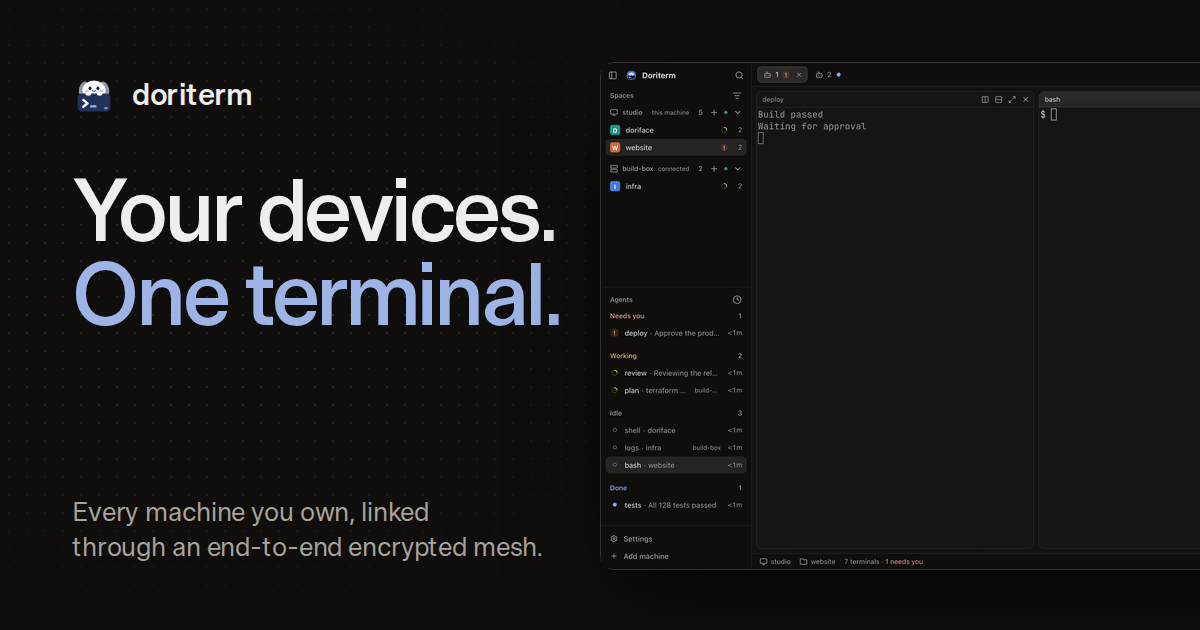
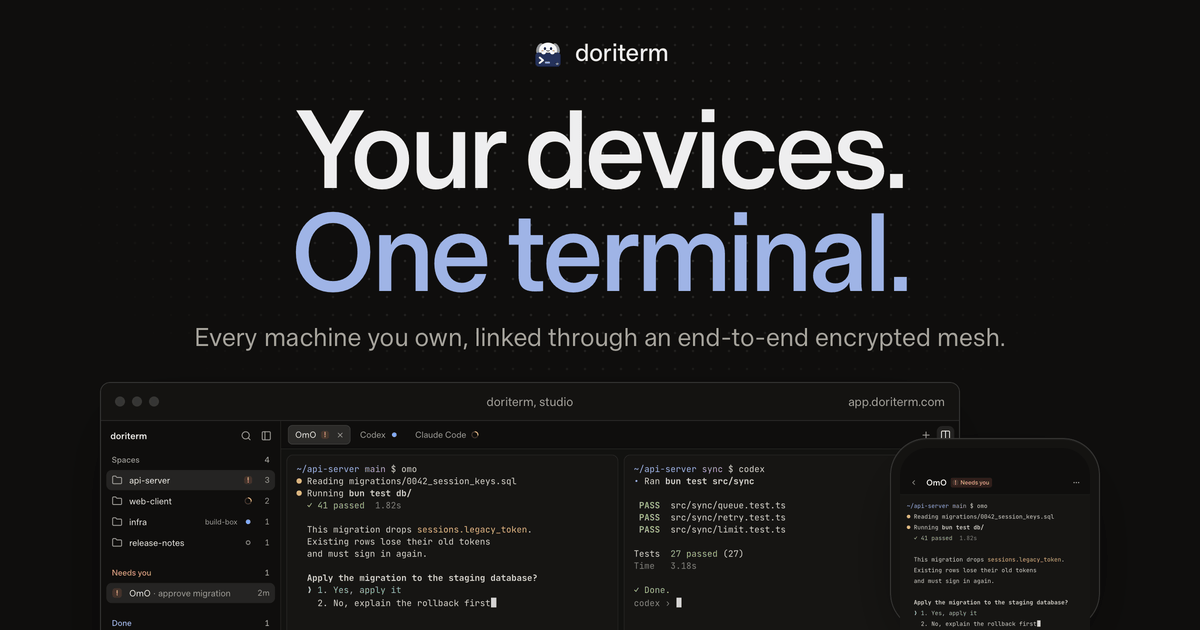
fix(landing): the social card shows the site as it looks now, at a dated address link previews fetch fresh
The card is rendered from the landing's own stylesheet and fonts with the live app mockups, in the Night palette the page uses by default. It is served at /og-20261108.png with a year-long immutable cache; /og.png carries the same image for links to the old name.

diff --git a/apps/web/index.html b/apps/web/index.html
@@ -9,15 +9,15 @@
     <meta property="og:title" content="Doriterm: Your devices. One terminal." />
     <meta property="og:description" content="Open Doriterm in your browser. Every machine you own, in one tab." />
     <meta property="og:url" content="https://app.doriterm.com/" />
-    <meta property="og:image" content="https://doriterm.com/og.png" />
+    <meta property="og:image" content="https://doriterm.com/og-20261108.png" />
     <meta property="og:image:width" content="1200" />
     <meta property="og:image:height" content="630" />
-    <meta property="og:image:alt" content="Doriterm: Your devices. One terminal., beside the app window." />
+    <meta property="og:image:alt" content="Doriterm: Your devices. One terminal., above the app window and phone." />
     <meta name="twitter:card" content="summary_large_image" />
     <meta name="twitter:title" content="Doriterm: Your devices. One terminal." />
     <meta name="twitter:description" content="Open Doriterm in your browser. Every machine you own, in one tab." />
-    <meta name="twitter:image" content="https://doriterm.com/og.png" />
-    <meta name="twitter:image:alt" content="Doriterm: Your devices. One terminal., beside the app window." />
+    <meta name="twitter:image" content="https://doriterm.com/og-20261108.png" />
+    <meta name="twitter:image:alt" content="Doriterm: Your devices. One terminal., above the app window and phone." />
     <link rel="icon" href="/favicon.svg" type="image/svg+xml" />
     <link rel="icon" href="/favicon-32.png" sizes="32x32" type="image/png" />
     <link rel="icon" href="/favicon-16.png" sizes="16x16" type="image/png" />

diff --git a/apps/landing/index.html b/apps/landing/index.html
@@ -14,7 +14,7 @@
     <meta property="og:description" content="Every machine you own, linked through an end-to-end encrypted mesh." />
     <meta property="og:url" content="https://doriterm.com/" />
     <meta property="og:type" content="website" />
-    <meta property="og:image" content="https://doriterm.com/og.png" />
+    <meta property="og:image" content="https://doriterm.com/og-20261108.png" />
     <meta property="og:image:width" content="1200" />
     <meta property="og:image:height" content="630" />
     <meta name="twitter:card" content="summary_large_image" />

diff --git a/tests/ci/deploy-web.test.ts b/tests/ci/deploy-web.test.ts
@@ -163,7 +163,7 @@ const metaOf = (page: string, key: string): string | undefined =>
 
 test("app.doriterm.com previews with the same card as doriterm.com, so the two cannot drift apart", () => {
   const landing = metaOf("landing", "og:image");
-  expect(landing).toBe("https://doriterm.com/og.png");
+  expect(landing).toBe("https://doriterm.com/og-20261108.png");
   expect(metaOf("web", "og:image")).toBe(landing);
   expect(metaOf("web", "twitter:image")).toBe(landing);
 });

diff --git a/.github/scripts/probe-landing.ts b/.github/scripts/probe-landing.ts
@@ -43,7 +43,7 @@ function probes(index: string): readonly Probe[] {
       check: (response) => (header(response, "cache-control").includes("immutable") ? undefined : "not immutable"),
     },
     {
-      path: "/og.png",
+      path: "/og-20261108.png",
       check: (response) => (header(response, "content-type") === "image/png" ? undefined : "not image/png"),
     },
   ];

diff --git a/apps/landing/README.md b/apps/landing/README.md
@@ -12,6 +12,6 @@ bun run --cwd apps/landing preview   # serve dist/
 
 - `index.html`, `styles.css`, `main.js`: the page. Plain HTML and CSS, one small module for the theme switch, the scene animations and the mockup frames.
 - `mockup/index.html` (served at `/mockup/`), `src/mockup/`: the app's own components from `@doriface/ui` with sample data, shown on the page in lazy iframes.
-- `public/`: files served at fixed paths (`_headers`, `og.png`, `robots.txt`, `sitemap.xml`, icons, the pre-paint `theme-init.js`, and `fonts/`, the Timeless Free Font License for Timeless Sans and Serif and the OFL for JetBrains Mono, which ship as `dist/fonts/`; the font files themselves are hashed into `dist/assets/`).
+- `public/`: files served at fixed paths (`_headers`, the social card `og-<yyyymmdd>.png` and its older name `og.png`, `robots.txt`, `sitemap.xml`, icons, the pre-paint `theme-init.js`, and `fonts/`, the Timeless Free Font License for Timeless Sans and Serif and the OFL for JetBrains Mono, which ship as `dist/fonts/`; the font files themselves are hashed into `dist/assets/`).
 
 The design system, the product rulings the copy follows, and the source line behind every claim on the page are in [docs/design/landing/DESIGN-LANDING.md](../../docs/design/landing/DESIGN-LANDING.md). Deploying `dist/` to doriterm.com belongs to the hosting work in #668.

diff --git a/changes/unreleased/fix-og-image-20261108.md b/changes/unreleased/fix-og-image-20261108.md
@@ -1,0 +1,5 @@
+### Website
+
+- Link previews of doriterm.com and app.doriterm.com show the site as it looks now: the
+  headline above the app's window and phone. The card has a new address, so chat apps and
+  social sites fetch it fresh instead of showing the old one from their cache.
